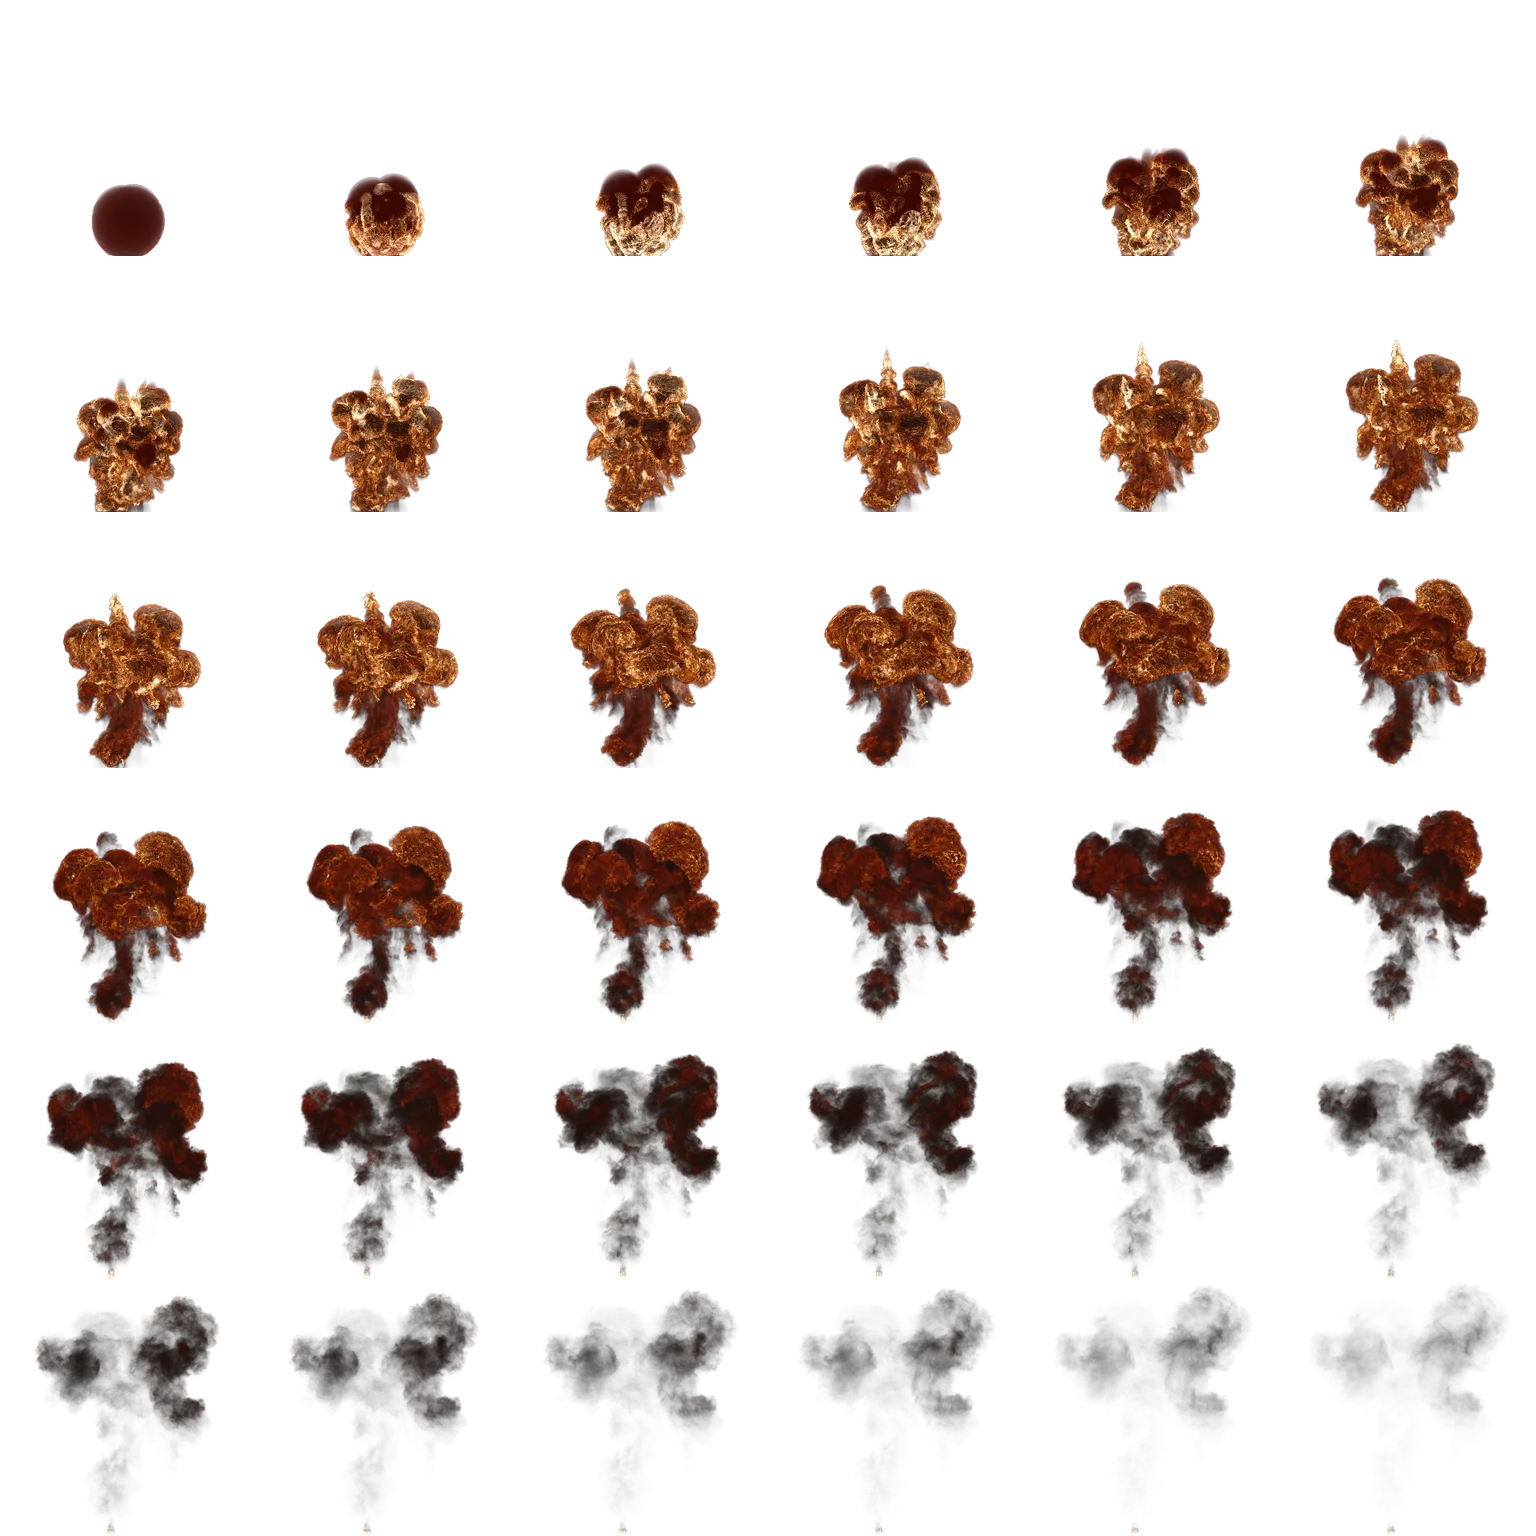
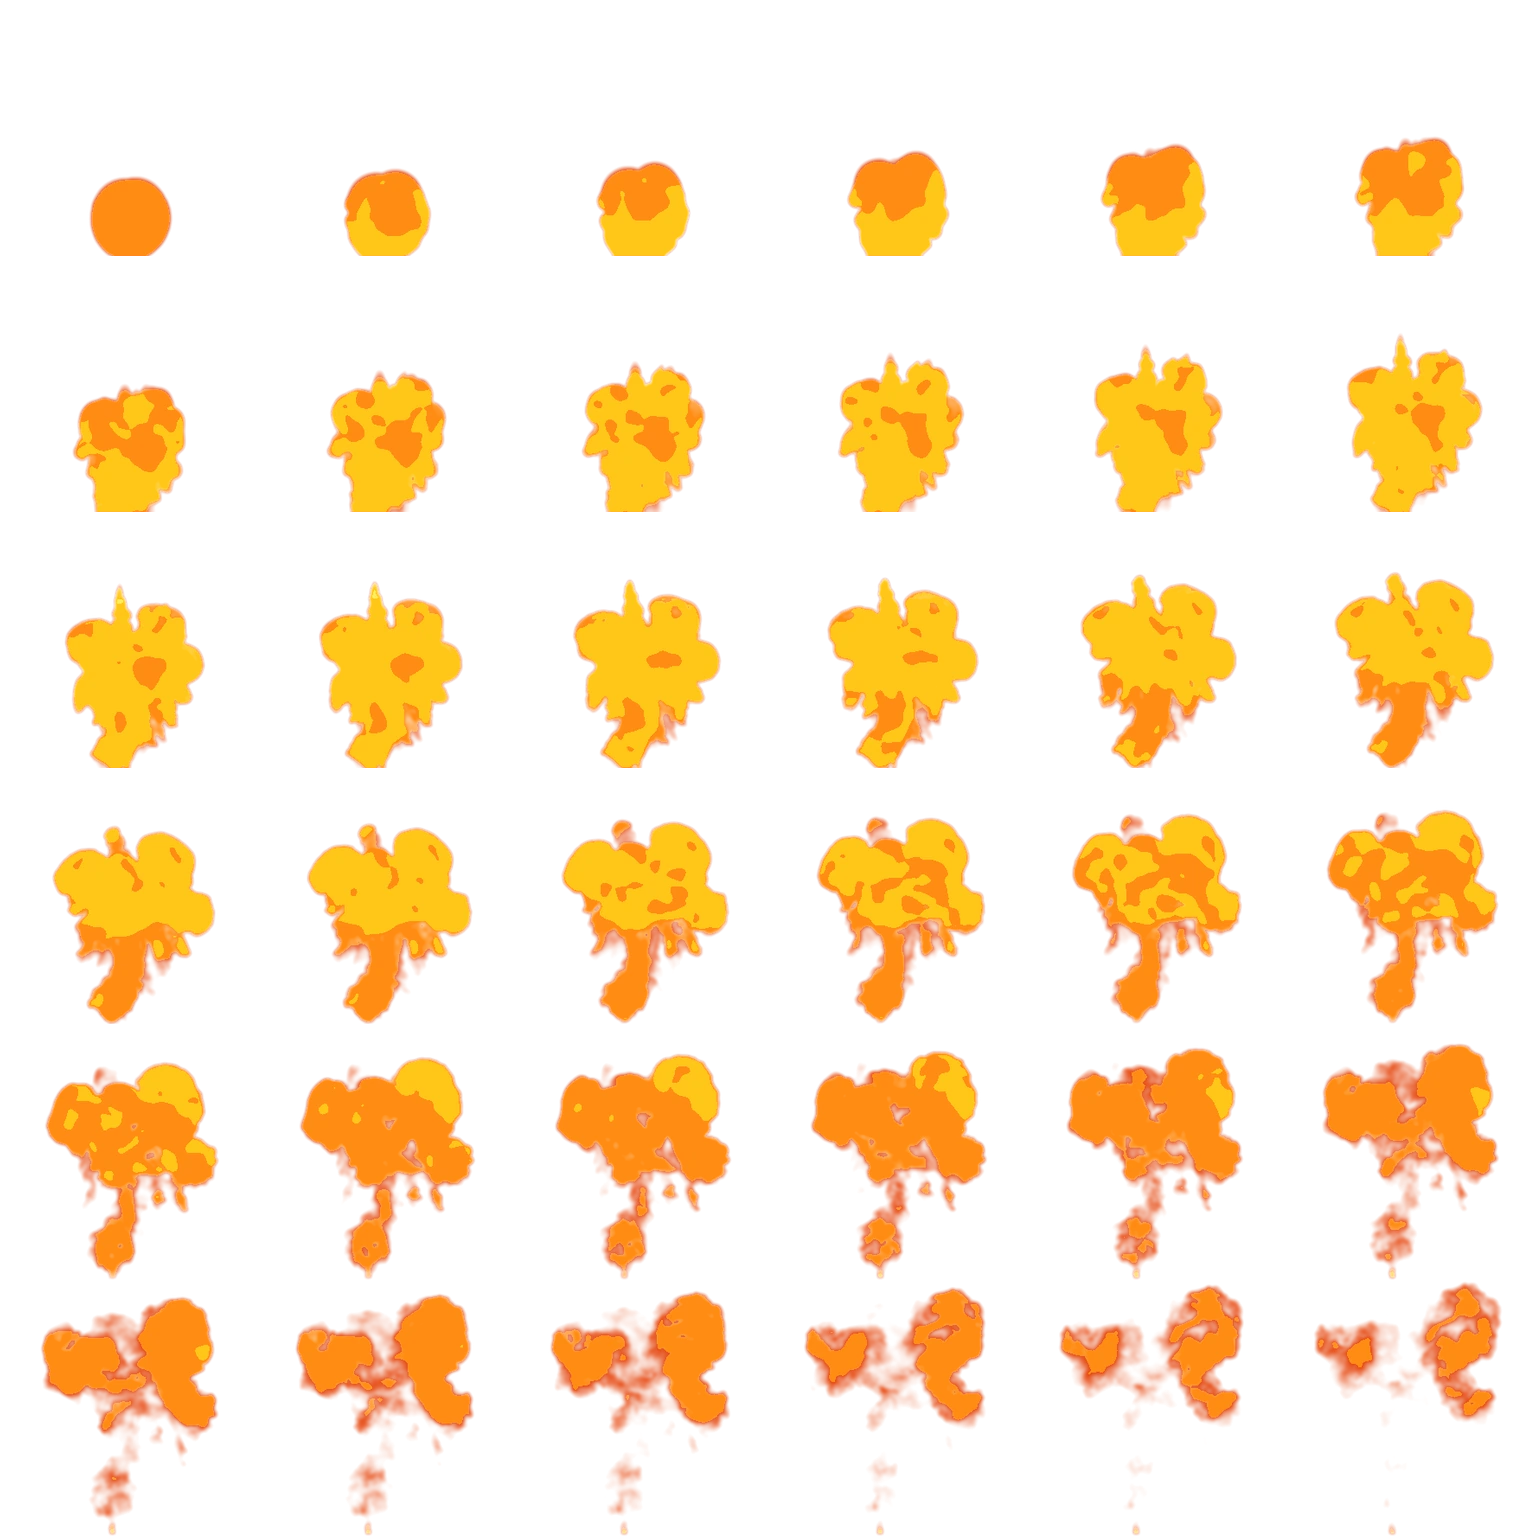
Fire restyled as toon fire after the fire-bending references (flat yellow / golden-orange / red-orange bands, crisp edges that burn away as flames die, no smoke or grain); KanaWorks water splashes removed
Claude-Session: https://claude.ai/code/session_015Gbhs9wnoQXxWGPvybEthR

diff --git a/elemental-forge/js/elements.js b/elemental-forge/js/elements.js
@@ -202,7 +202,7 @@ export class Bending {
     if (o.el === 'earth') { fx.debrisBurst(o.pos, 12, 3.5, 0.1, 0x6e665e); fx.dust(o.pos, 5, 2, 0x9f9282); w.audio.impact(0.6); }
     if (o.el === 'fire') { for (let i = 0; i < 10; i++) fx.fire(o.pos, _v.set(rand(-3, 3), rand(-1, 3), rand(-3, 3)), 0.5, 0.35); fx.smoke(o.pos); w.audio.fireHit(0.6); }
     // water bursts in the KanaWorks splash flipbook; ice shatters into pale fragments
-    if (o.el === 'water') { if (SPEC[o.kind] && SPEC[o.kind].ice) fx.debrisBurst(o.pos, 14, 4, 0.08, 0xe0f4ff); else fx.flip.spawn('water_impact', { pos: o.pos, size: [2.0, 2.0], life: 0.6, fps: 75, fadeIn: 0.01, rot: 0 }); w.audio.splash(0.7); this.extinguishNear(o.pos, 1.8); }
+    if (o.el === 'water') { if (SPEC[o.kind] && SPEC[o.kind].ice) fx.debrisBurst(o.pos, 14, 4, 0.08, 0xe0f4ff); w.audio.splash(0.7); this.extinguishNear(o.pos, 1.8); }
     if (o.el === 'air') { for (let i = 0; i < 6; i++) fx.wind(o.pos, _v.set(rand(-4, 4), rand(-1, 2), rand(-4, 4)), 0.6, 0.35); }
     if (how === 'steam') fx.steam(o.pos, 10);
     if (o.src) o.src.respawnT = 18; // loose stone comes back later
@@ -337,8 +337,7 @@ export class Bending {
         if (g.length) { this.launch(g[0], f, 1); return; }
         // the Tai Chi push: both palms drive a wide wave of water straight out
         if (f.tech && f.tech.clip === 'water_palm') {
-          for (const sd of ['L', 'R']) this.weapons.limbArc(f, 'water', 'hand', sd, { span: 0.25, speed: 14, grow: 2.2, dmg: 9, knock: 11, level: 1 });
-          w.fx.flip.spawn('water_impact', { pos: this.forwardPoint(f, 1.4, 0).setY(f.groundY), size: [2.6, 2.6], life: 0.7, pivot: 1, fps: 60, fadeIn: 0.01, rot: 0 }); w.audio.splash(1); return;
+          for (const sd of ['L', 'R']) this.weapons.limbArc(f, 'water', 'hand', sd, { span: 0.25, speed: 14, grow: 2.2, dmg: 9, knock: 11, level: 1 }); w.audio.splash(1); return;
         }
         // a punch (jab, cross or hook): a ball of water, every second one frozen to ice, is driven out of the fist
         if (f.tech && /punch|jab/.test(f.tech.clip)) {
@@ -364,8 +363,7 @@ export class Bending {
       }
       case 'water.sweep': {
         // the low sweep: the sweeping foot drags a crescent of water along the floor round the bender
-        this.weapons.limbArc(f, 'water', 'foot', s > 0 ? 'L' : 'R', { span: 0.32, speed: 9, grow: 1.8, dmg: 8, knock: 4, level: 2 });
-        w.fx.flip.spawn('water_impact', { pos: _v.set(f.pos.x, f.groundY, f.pos.z), size: [3.2, 2.2], life: 0.6, pivot: 1, fps: 70, fadeIn: 0.01, rot: 0 }); w.audio.splash(0.9); return;
+        this.weapons.limbArc(f, 'water', 'foot', s > 0 ? 'L' : 'R', { span: 0.32, speed: 9, grow: 1.8, dmg: 8, knock: 4, level: 2 }); w.audio.splash(0.9); return;
       }
       case 'water.leg': {
         // crescent kick: a broad, low arc of water sweeping out at leg height (takes the opponent's footing)

diff --git a/elemental-forge/js/flipfx.js b/elemental-forge/js/flipfx.js
@@ -1,5 +1,6 @@
 // Flipbook effects: camera-facing sprites that play the downloaded / pre-rendered effect sheets.
-//   fire_flames    : JangaFX EmberGen "Fire_01" (CC0), rendered to a 6x6 sheet by tools/vdb-flipbook.py
+//   fire_flames    : JangaFX EmberGen "Fire_01" (CC0), rendered to a 6x6 toon sheet by tools/vdb-flipbook.py (toon=1:
+//                    flat bands of pale yellow, yellow, golden orange and a red-orange rim, as in the reference footage)
 //   fire_explosion : JangaFX EmberGen "Gasoline_Explosion_01" (CC0), rendered the same way (fireball, then smoke)
 //   water_impact_01, water_column_01, ice_projectile_01 : KanaWorks SAKUGA VFX (credit: VFX: KanaWorks_AI (@KanaWorks_AI))
 // Each sheet is drawn by one instanced mesh (one draw call), so hundreds of flame sprites stay cheap on a phone.
@@ -34,10 +35,16 @@ const VERT = `
     gl_Position = projectionMatrix * viewMatrix * vec4(wp, 1.0);
   }`;
 const FRAG = `
-  uniform sampler2D uMap; uniform float uBright; varying vec2 vUv; varying float vAlpha;
+  uniform sampler2D uMap; uniform float uBright; uniform float uToon; varying vec2 vUv; varying float vAlpha;
   void main() {
     vec4 t = texture2D(uMap, vUv);
     float a = t.a * vAlpha;
+    if (uToon > 0.5) {
+      // toon fire: the sheet's alpha is a soft coverage; cut a crisp edge at 0.2 and raise the cut as the flame fades,
+      // so a dying flame shrinks and breaks up from its edges and stays solid inside
+      float cut = 0.2 + (1.0 - vAlpha) * 0.75;
+      a = smoothstep(cut, cut + 0.035, t.a);
+    }
     if (a < 0.01) discard;
     gl_FragColor = vec4(t.rgb * uBright, a);
     #include <colorspace_fragment>
@@ -56,7 +63,7 @@ class Sheet {
     const tex = new THREE.TextureLoader().load('assets/fx/' + def.file);
     tex.colorSpace = THREE.SRGBColorSpace; tex.generateMipmaps = true; tex.minFilter = THREE.LinearMipmapLinearFilter;
     this.mat = new THREE.ShaderMaterial({
-      uniforms: { uMap: { value: tex }, uGrid: { value: new THREE.Vector2(...def.grid) }, uBright: { value: def.blend === 'fire' ? 1.12 : 1.0 } },
+      uniforms: { uMap: { value: tex }, uGrid: { value: new THREE.Vector2(...def.grid) }, uBright: { value: 1.0 }, uToon: { value: def.blend === 'fire' ? 1 : 0 } },
       vertexShader: VERT, fragmentShader: FRAG, transparent: true, depthWrite: false,
       blending: def.blend === 'fire' ? THREE.CustomBlending : THREE.NormalBlending,
     });

diff --git a/elemental-forge/js/weapons.js b/elemental-forge/js/weapons.js
@@ -90,7 +90,6 @@ export class Weapons {
         if (t.onGround || G.slamT > 0.45) {
           G.dead = true;
           const at = _b.set(t.pos.x, t.groundY, t.pos.z);
-          w.fx.flip.spawn('water_impact', { pos: at, size: [4.2, 4.2], life: 0.9, pivot: 1, fps: 50, f0: 0, f1: 44, fadeIn: 0.01, rot: 0 });
           w.fx.crater(at, 2.4); w.shake(0.45, at); w.audio.impact(1.3); w.popup(f, 'SLAM', true);
           this.burst.spawn(at.x, at.y, at.z, 0.3);
         }

diff --git a/elemental-forge/tools/vdb-flipbook.py b/elemental-forge/tools/vdb-flipbook.py
@@ -3,7 +3,10 @@
 # (a black-body style ramp: deep red at the edges, orange, then a pale yellow core), the density channel (smoke,
 # where present) absorbs. Output: an RGBA PNG atlas (straight alpha) plus a JSON description.
 # Usage: /usr/bin/python3.12 tools/vdb-flipbook.py <vdb dir> <prefix> <out.png> [frames=64] [cell=256] [axis=y]
-#        [first=0] [last=-1] [gain=1.0] [smoke=1]
+#        [first=0] [last=-1] [gain=1.0] [smoke=1] [base=0] [toon=0]
+# toon=1: the stylised look of the reference footage. The marched coverage and heat are smoothed (no grainy
+# sim detail), then cut into flat colour bands (pale yellow core, yellow, golden orange, a thin red-orange rim)
+# with a crisp edge, and no smoke.
 import sys, os, json, glob, re
 import numpy as np
 import pyopenvdb as vdb
@@ -18,6 +21,8 @@ LAST = int(sys.argv[8]) if len(sys.argv) > 8 else -1
 GAIN = float(sys.argv[9]) if len(sys.argv) > 9 else 1.0
 SMOKE = float(sys.argv[10]) if len(sys.argv) > 10 else 1.0
 BASE = int(sys.argv[11]) if len(sys.argv) > 11 else 0     # voxels at the bottom faded out (the source emitter)
+TOON = int(sys.argv[12]) if len(sys.argv) > 12 else 0
+if TOON: SMOKE = 0.0
 
 files = sorted(glob.glob(os.path.join(src, prefix + '*.vdb')), key=lambda f: int(re.findall(r'(\d+)\.vdb$', f)[0]))
 if LAST < 0: LAST = len(files) - 1
@@ -49,13 +54,20 @@ def dense(g):
 # emission colour ramp over normalised heat 0..1
 ramp_t = np.array([0.0, 0.18, 0.4, 0.62, 0.82, 1.0])
 ramp_c = np.array([[0.25, 0.02, 0.0], [0.75, 0.10, 0.01], [1.0, 0.35, 0.03], [1.0, 0.62, 0.12], [1.0, 0.86, 0.45], [1.0, 0.97, 0.85]])
+def blur2(a, sig):
+  # separable gaussian blur of a 2D map
+  r = int(sig * 3) + 1; x = np.arange(-r, r + 1); k = np.exp(-x * x / (2 * sig * sig)); k /= k.sum()
+  a = np.apply_along_axis(lambda v: np.convolve(np.pad(v, r, mode='edge'), k, 'valid'), 0, a)
+  return np.apply_along_axis(lambda v: np.convolve(np.pad(v, r, mode='edge'), k, 'valid'), 1, a)
+# toon bands, from the rim inwards: red-orange, golden orange, yellow, pale yellow (sampled from the references)
+TOON_C = np.array([[0.90, 0.28, 0.06], [1.0, 0.55, 0.08], [1.0, 0.78, 0.10], [1.0, 0.93, 0.38]], np.float32)
 def ramp(h):
   r = np.stack([np.interp(h, ramp_t, ramp_c[:, k]) for k in range(3)], -1)
   return r
 
 ax = {'x': 0, 'y': 1, 'z': 2}[AXIS]
 cols = int(np.ceil(np.sqrt(N))); rows = int(np.ceil(N / cols))
-atlas = Image.new('RGBA', (cols * CELL, rows * CELL), (0, 0, 0, 0))
+atlas = Image.new('RGBA', (cols * CELL, rows * CELL), (237, 71, 15, 0) if TOON else (0, 0, 0, 0))
 # global normalisation from a mid-sequence frame
 mx_fl = 1e-6; mx_t = 1e-6
 for f in pick[len(pick) // 3: len(pick) // 3 + 3]:
@@ -80,7 +92,7 @@ for i, f in enumerate(pick):
   em_amt = np.transpose(em_amt, perm); heat = np.transpose(heat, perm)
   if de is not None: de = np.transpose(de, perm)
   W, H, D = em_amt.shape
-  col = np.zeros((W, H, 3), np.float32); T = np.ones((W, H), np.float32)
+  col = np.zeros((W, H, 3), np.float32); T = np.ones((W, H), np.float32); hs = np.zeros((W, H), np.float32)
   step = 1.0
   for k in range(D):
     e = em_amt[:, :, k]; h = heat[:, :, k]
@@ -89,9 +101,32 @@ for i, f in enumerate(pick):
     a_e = 1 - np.exp(-e * 0.35 * GAIN * step)
     a_s = (1 - np.exp(-de[:, :, k] * 0.08 * SMOKE * step)) if de is not None else 0
     col += (T * a_e)[..., None] * c
+    hs += T * a_e * np.clip(h, 0, 1)
     if de is not None: col += (T * a_s)[..., None] * (np.array([0.09, 0.075, 0.065]) + 0.5 * c * np.clip(e, 0, 1)[..., None]) * (1 - a_e)[..., None]   # smoke, lit from inside by the flames
     T *= (1 - np.clip(a_e + a_s, 0, 1))
   alpha = np.clip(1 - T, 0, 1)
+  if TOON:
+    sig = max(1.0, W / 120)
+    cov = blur2(alpha, sig); ht = blur2(hs, sig * 2.2) / np.maximum(blur2(alpha, sig * 2.2), 1e-3)
+    # how deep inside the flame a pixel is: coverage and heat together, so cores sit where the fire is thick and hot
+    v = np.clip(0.3 * np.clip((cov - 0.22) / 0.6, 0, 1) + 0.85 * np.clip(ht, 0, 1) ** 1.3, 0, 1)
+    # the alpha channel stores a soft coverage (0.2 at the flame's outline); the game cuts the crisp edge from it in
+    # the shader and raises the cut as a flame dies, so flames burn away from their edges instead of turning see-through
+    edge = np.clip((cov - 0.05) / 0.75, 0, 1)
+    band = np.digitize(v, [0.3, 0.52, 0.86])
+    rgb = TOON_C[band]
+    rim = (cov < 0.3)                                               # a thin red-orange outline
+    rgb[rim] = TOON_C[0]
+    img = np.concatenate([rgb, edge[..., None]], -1)
+    img = np.transpose(img, (1, 0, 2))[::-1]
+    im = Image.fromarray((np.clip(img, 0, 1) * 255).astype(np.uint8), 'RGBA')
+    s_ = CELL / max(im.size); im = im.resize((max(1, int(im.size[0] * s_)), max(1, int(im.size[1] * s_))), Image.LANCZOS)
+    # empty pixels carry the rim colour (not black), so texture filtering never darkens the edges
+    rimc = tuple(int(c * 255) for c in TOON_C[0])
+    cell = Image.new('RGBA', (CELL, CELL), rimc + (0,)); cell.paste(im, ((CELL - im.size[0]) // 2, CELL - im.size[1]))
+    atlas.paste(cell, ((i % cols) * CELL, (i // cols) * CELL))
+    print('frame', i, os.path.basename(f), 'coverage', round(float((edge > 0.2).mean()), 3), flush=True)
+    continue
   rgb = np.where(alpha[..., None] > 1e-4, col / np.maximum(alpha, 1e-4)[..., None], 0)
   img = np.concatenate([np.clip(rgb, 0, 1), alpha[..., None]], -1)
   img = np.transpose(img, (1, 0, 2))[::-1]          # rows = height, top first
@@ -101,6 +136,9 @@ for i, f in enumerate(pick):
   atlas.paste(cell, ((i % cols) * CELL, (i // cols) * CELL))
   print('frame', i, os.path.basename(f), 'coverage', round(float((alpha > 0.05).mean()), 3), flush=True)
 
+if TOON:
+  # fully transparent pixels take the rim colour (resizing zeroes them), so filtering and mipmaps never pull in black
+  A = np.array(atlas); A[A[..., 3] == 0, :3] = (TOON_C[0] * 255).astype(np.uint8); atlas = Image.fromarray(A, 'RGBA')
 atlas.save(out, optimize=True)
 json.dump({'grid': [cols, rows], 'cell': [CELL, CELL], 'frames': N, 'pivot': [0.5, 0.0], 'alpha': 'straight',
   'source': 'JangaFX EmberGen ' + prefix + ' (CC0), rendered by tools/vdb-flipbook.py', 'axis': AXIS},

diff --git a/elemental-forge/docs/M6-ASSETS-AND-MOVES.md b/elemental-forge/docs/M6-ASSETS-AND-MOVES.md
@@ -114,3 +114,13 @@ Seen in the video and not yet fixed:
 - At the end of earth_wall_surf the recording camera, placed close to the body, ends up inside the arena wall after the dismount. This is the capture script's camera, not the game camera.
 - The rocket dodge's flame jets read as low flames trailing on the floor more than as jets from the feet.
 - The ice-surf crest is translucent and its inner faces show through.
+
+## 9. Fire restyled, water splashes removed (17 Nov, later)
+
+- **Fire is now stylised toon fire, matching the fire-bending reference footage** (ref9 `fire1.mp4`, `fire2.mp4`). The reference flames are solid and saturated: bright yellow cores, golden-orange bands, a thin red-orange rim, rounded puffs and no smoke.
+  - The EmberGen volumes are re-rendered with `tools/vdb-flipbook.py` in toon mode (last argument `1`). The coverage and heat maps are smoothed to remove the grainy simulation detail, then cut into four flat colour bands.
+  - The sheet's alpha holds a soft coverage. The shader (`js/flipfx.js`, `uToon`) cuts a crisp edge from it and raises the cut as a flame dies, so flames break up from their edges instead of turning see-through.
+  - Transparent pixels carry the rim colour, so texture filtering no longer turns the flame edges olive.
+  - The fireball at the stomping foot uses the same treatment, without smoke.
+  - Every fire effect (stomp wave, guard wall, kick arcs, fist streams, rocket jets, sweep) uses these two sheets, so all of them changed together.
+- **The KanaWorks water splash sprites are removed** (ball hits, Tai Chi push, water sweep, whip slam). The sheet files stay in `assets/fx/` but nothing plays them.
